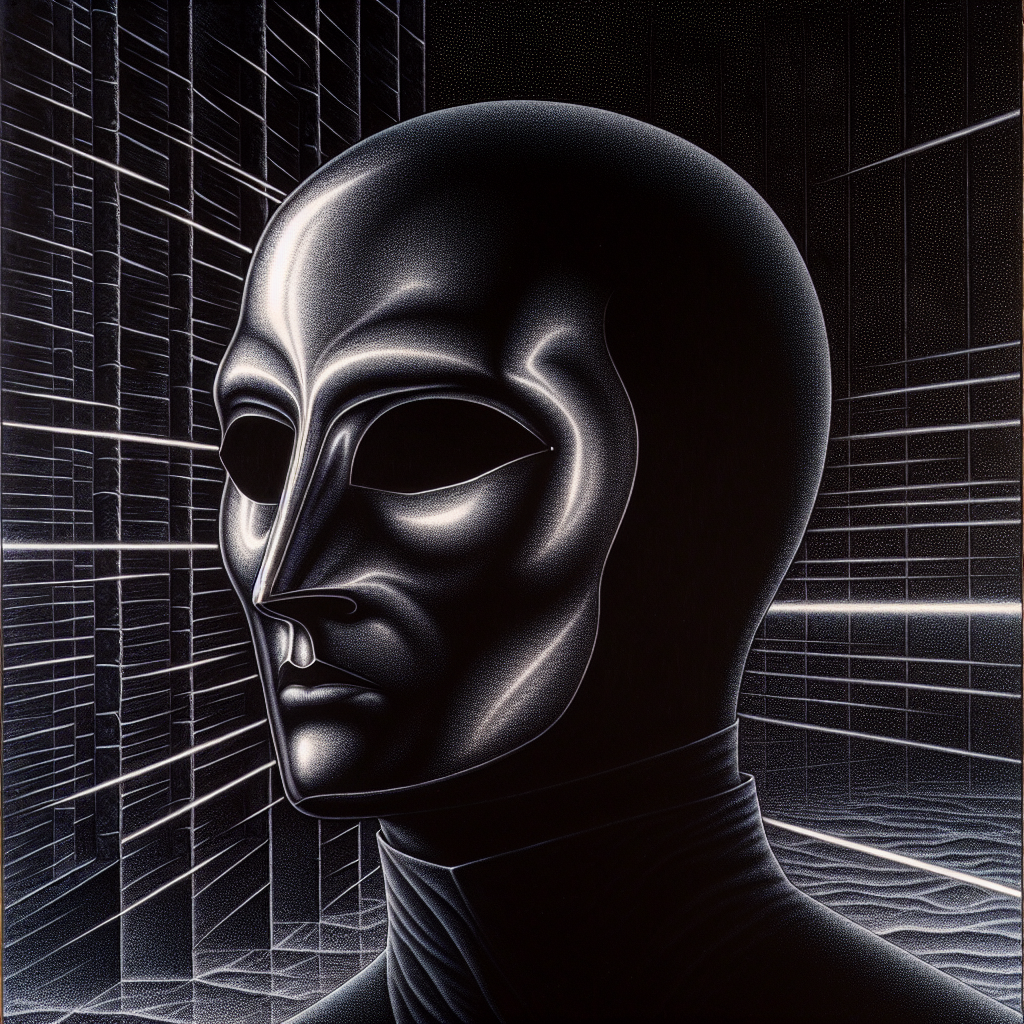
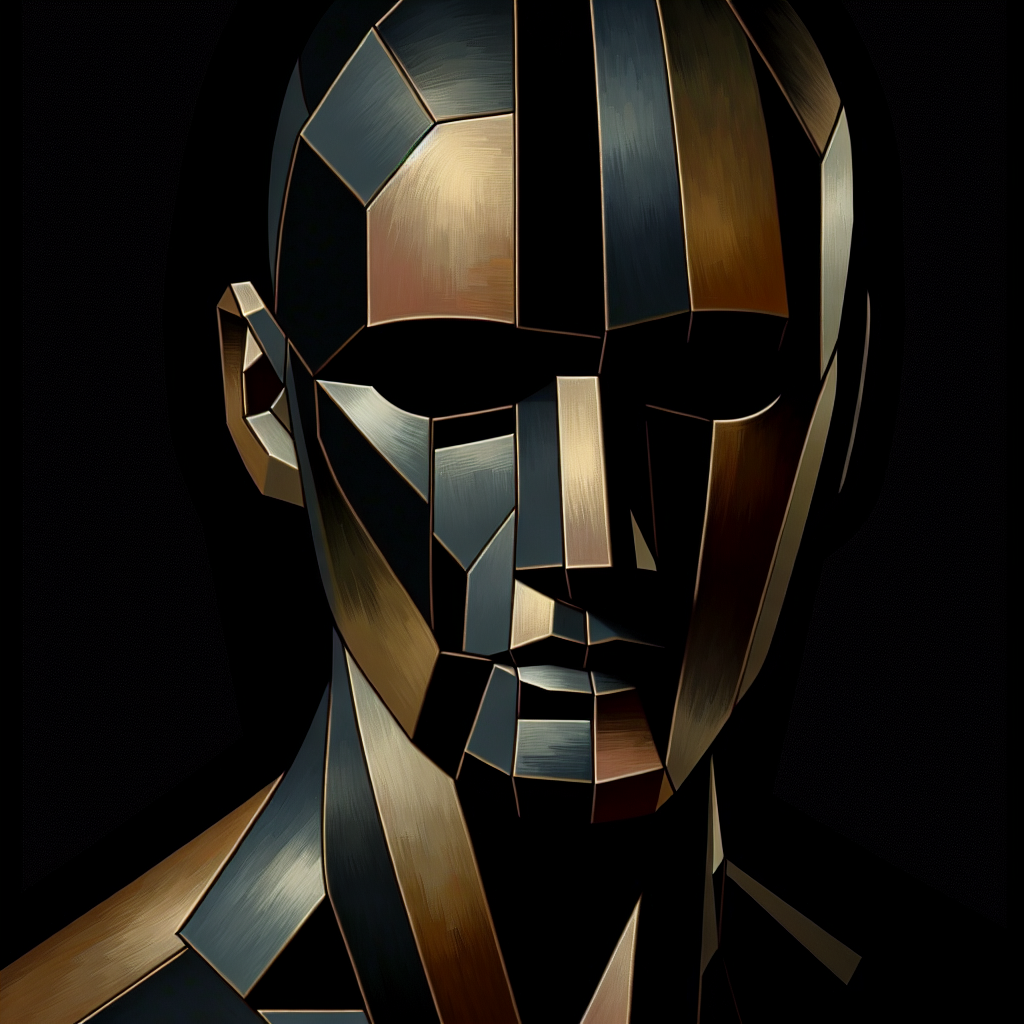
Generate all 16 archetype images in cubist style
Image Generation:
- Updated master style to cubist with geometric fragmented planes
- Generated all 16 CAS archetype images using OpenAI DALL-E 3
- Style: Cubist geometric fragmented planes, multiple perspectives, angular forms, muted earth tones with bold accents

Technical:
- Updated scripts/generate-image.js with new MASTER_STYLE
- All images saved to src/assets/images/archetype-*.png
- Enabled Vertex AI and Imagen APIs in Google Cloud (future use)

Archetypes Visualized:
1. The Resonant Sage (Grounded Navigator)
2. The Soft Anchor (Secure)
3. The Stormbound (Emotional Enthusiast)
4. The Truth Teller (Heartfelt Defender)
5. The Open Flame (Passionate Pilgrim)
6. The Magnetic Poet (Lone Wolf)
7. The Mirror Mask (Chill Conductor)
8. The Boundary Breaker (Independent Icon)
9. The Iron Mask (Mystery Mosaic)
10. The Strategist
11. The Gentle Ghost
12. The Fortress-Keeper
13. The Quiet Depth
14. The Open Seeker
15. The Tethered Caretaker
16. The Inner Compass

🤖 Generated with Claude Code (https://claude.com/claude-code)

diff --git a/scripts/generate-image.js b/scripts/generate-image.js
@@ -109,7 +109,7 @@ const archetypes = [
 ];
 
 // Master style to append
-const MASTER_STYLE = "Pen and Ink with Gauche in Vorticism style";
+const MASTER_STYLE = "Cubist style, geometric fragmented planes, multiple perspectives, angular forms, muted earth tones with bold accents";
 
 function getFullPrompt(archetype) {
   return `${archetype.imagePrompt}, ${MASTER_STYLE}`;
